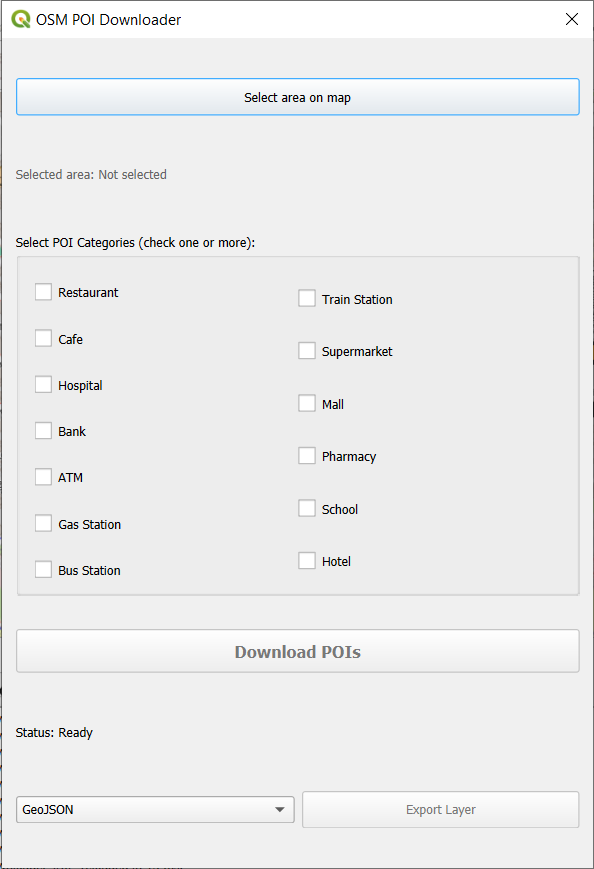
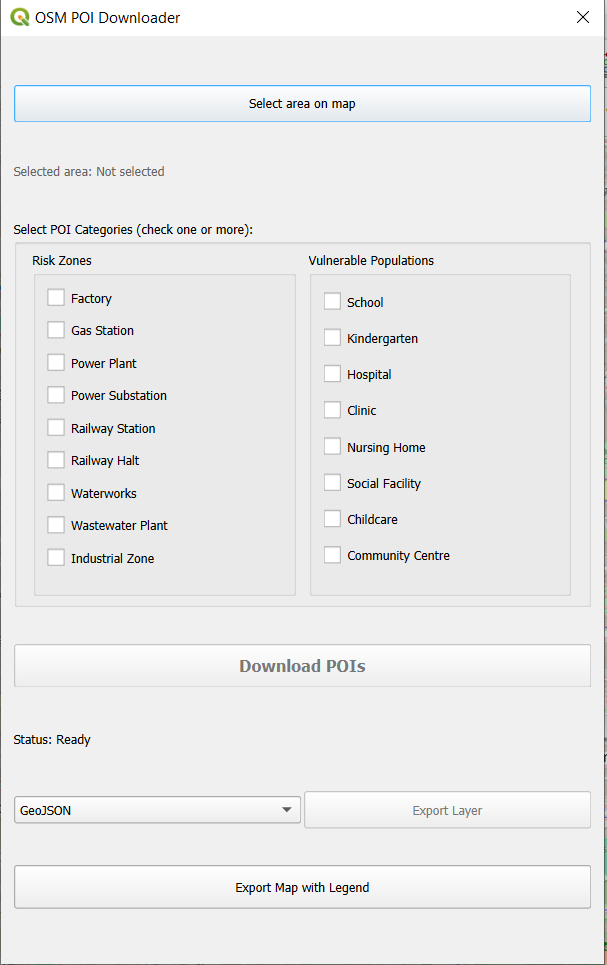
Update README.md

diff --git a/README.md b/README.md
@@ -1,38 +1,65 @@
 # OSM POI Downloader - QGIS Plugin
 
-A QGIS plugin for downloading and visualizing Points of Interest (POI) data from OpenStreetMap using the Overpass API.
+A QGIS plugin for risk assessment mapping by downloading and visualizing Points of Interest (POI) data from OpenStreetMap using the Overpass API. Designed for identifying potential hazards (Risk Zones) and sensitive locations (Vulnerable Populations).
 
 ## Overview
 
-This plugin allows users to quickly download POI data from OpenStreetMap by drawing a bounding box on the map and selecting one or more POI categories. The downloaded data is automatically displayed as styled layers in QGIS and can be exported to GeoJSON or CSV formats.
+This plugin enables rapid risk assessment by downloading and mapping two critical categories of locations from OpenStreetMap:
+- **Risk Zones**: Industrial facilities and infrastructure that may pose hazards
+- **Vulnerable Populations**: Facilities serving sensitive groups requiring special consideration
+
+Users can draw a bounding box on the map, select categories, and automatically visualize the data with intelligent color-coding and density-based labeling.
 
 ## Features
 
 ### Core Functionality
 - **Interactive Area Selection**: Draw a rectangle directly on the QGIS map canvas to define your search area
-- **Multiple POI Categories**: Support for 13 common POI types:
-  - Restaurant
-  - Cafe
-  - Hospital
-  - School
-  - Bank
-  - ATM
-  - Pharmacy
+- **Risk Assessment Categories**: Two main category groups with 17 total POI types:
+
+#### Risk Zones (Industrial & Infrastructure Hazards)
+  - Factory
   - Gas Station
-  - Supermarket
-  - Mall
-  - Bus Station
-  - Train Station
-  - Hotel
+  - Power Plant
+  - Power Substation
+  - Railway Station
+  - Railway Halt
+  - Waterworks
+  - Wastewater Plant
+  - Industrial Zone
+
+#### Vulnerable Populations (Sensitive Facilities)
+  - School
+  - Kindergarten
+  - Hospital
+  - Clinic
+  - Nursing Home
+  - Social Facility
+  - Childcare
+  - Community Centre
 
 ### Advanced Features
-- **Multi-Category Download**: Select and download multiple POI categories simultaneously
-- **Automatic Styling**: Each POI category is displayed with a distinct color for easy visual identification
+- **Color-Coded Visualization**: 
+  - Risk Zones displayed in red/orange palette for immediate hazard identification
+  - Vulnerable Populations shown in blue/green palette for clarity
+  - Different marker sizes for visual distinction
+- **Smart Density-Based Labeling**: 
+  - Automatic label display in low-density areas (< 10 POIs/km²)
+  - Labels hidden in high-density urban areas to prevent clutter
+  - Intelligent edge-case handling for very small areas
+- **Batch Query Optimization**:
+  - Batch mode for 3+ categories (single API call for efficiency)
+  - Individual mode with rate-limiting delays for 1-2 categories
+  - Automatic retry logic with exponential backoff for reliability
 - **Statistical Analysis**: Automatic calculation of:
-  - Number of POIs found
+  - Number of POIs found per category
   - Area covered (km²)
   - POI density (POIs per km²)
   - Geographic bounds
+- **Map Export with Automatic Legend**:
+  - Export complete map canvas to PNG, JPEG, or PDF
+  - Automatically generated legend showing all visible layers
+  - Custom title input
+  - Professional layout with scale bar
 - **Data Export**: Export downloaded POI data to:
   - GeoJSON format (for use in web maps and other GIS software)
   - CSV format (for use in spreadsheets and databases)
@@ -86,8 +113,10 @@ This plugin allows users to quickly download POI data from OpenStreetMap by draw
 
 4. **Download POIs**
    - Click `Download POIs`
-   - Progress bar shows download status for each category
-   - Upon completion, new layers appear in the Layers panel
+   - Progress bar shows download status
+   - For 3+ categories: single batch request (faster)
+   - For 1-2 categories: individual requests with delays (more reliable)
+   - Upon completion, new layers appear in the Layers panel with appropriate colors
    - Statistics panel shows analysis of the downloaded data
 
 5. **Export Data (Optional)**
@@ -96,14 +125,25 @@ This plugin allows users to quickly download POI data from OpenStreetMap by draw
    - Choose to export all layers or select specific ones
    - Select save location
 
+6. **Export Map (Optional)**
+   - Click `Export Map with Legend`
+   - Choose format (PNG, JPEG, or PDF)
+   - Enter custom map title
+   - Select save location
+   - Map is exported with automatic legend
+
 ### Tips for Best Results
 
 - **Area Size**: For best performance, keep your search area under 25 km²
-- **Dense Areas**: In city centers, consider smaller areas or fewer categories to avoid timeouts
+- **Dense Areas**: In city centers, smaller areas work better
+- **Category Selection**: 
+  - Select 3+ categories for faster batch download
+  - Mix Risk Zones and Vulnerable Populations for comprehensive assessment
 - **No Results**: If no POIs are found, try:
   - A larger area
-  - Different categories (some POI types may not be mapped in all regions)
+  - Different categories (some POI types may not be well-mapped in all regions)
   - A different location
+- **Labeling**: Labels automatically adjust based on density - sparse areas show labels, dense areas don't
 
 ## Screenshots
 
@@ -116,6 +156,9 @@ This plugin allows users to quickly download POI data from OpenStreetMap by draw
 ### Multiple Layers
 ![Multiple Categories](docs/screenshots/multiple_layers.PNG)
 
+### Exported Map with Legend
+![Exported Map](docs/screenshots/exported_map.png)
+
 ## Technical Details
 
 ### Architecture
@@ -125,9 +168,10 @@ The plugin consists of several modular components:
 - **`osm_poi_downloader.py`**: Main plugin class and QGIS integration
 - **`osm_poi_downloader_dialog.py`**: User interface logic and workflow coordination
 - **`map_tool_select_area.py`**: Custom map tool for interactive rectangle selection
-- **`overpass_api.py`**: Overpass API client with query builder and response parser
-- **`poi_layer_creator.py`**: QGIS layer creation and styling
+- **`overpass_api.py`**: Overpass API client with query builder, batch processing, retry logic, and response parser
+- **`poi_layer_creator.py`**: QGIS layer creation, color-coded styling, and density-based labeling
 - **`exporter.py`**: Data export functionality (GeoJSON, CSV)
+- **`map_exporter.py`**: Map canvas export with automatic legend generation
 - **`statistics_calculator.py`**: Geographic calculations and statistics
 
 ### Data Source
@@ -140,9 +184,33 @@ All POI data comes from **OpenStreetMap** via the **Overpass API**:
 ### API Usage
 
 This plugin uses the public Overpass API endpoint (`https://overpass-api.de/api/interpreter`):
-- Queries timeout after 25 seconds
+- Batch queries for 3+ categories (single API call)
+- Individual queries with 2-second delays for 1-2 categories
+- Automatic retry logic with exponential backoff (3 attempts)
+- Queries timeout after 25 seconds (individual) or 60 seconds (batch)
 - Fair use policy applies
 - For heavy usage, consider running your own Overpass instance
+
+### Query Optimization
+
+The plugin intelligently chooses between two query modes:
+- **Batch Mode (3+ categories)**: Single Overpass query for all categories, faster and more efficient
+- **Individual Mode (1-2 categories)**: Separate queries with delays, more reliable for small requests
+- **Retry Logic**: Automatically retries failed requests up to 3 times with exponential backoff
+
+### Visualization Features
+
+- **Color Coding**:
+  - Risk Zones: Red to orange gradient
+  - Vulnerable Populations: Blue to green gradient
+- **Marker Sizing**:
+  - Risk Zones: 4mm diameter with 1.0mm outline
+  - Vulnerable Populations: 3mm diameter with 0.8mm outline
+- **Smart Labeling**:
+  - Density threshold: 10 POIs/km²
+  - Areas below threshold: labels enabled
+  - Areas above threshold: labels disabled
+  - Minimum area threshold: 0.01 km² (labels always shown for smaller areas)
 
 ## Limitations
 
@@ -160,13 +228,22 @@ This plugin uses the public Overpass API endpoint (`https://overpass-api.de/api/
 - **Solution**: Make sure the plugin folder is in the correct location and QGIS was restarted
 
 **Problem**: "Request timed out" error
-- **Solution**: Either the area is too large or the API is busy. Try again with a smaller area
+- **Solution**: The area may be too large or the API is busy. Try a smaller area or select fewer categories
+
+**Problem**: "504 Gateway Timeout" error
+- **Solution**: The Overpass API is overloaded. Wait a minute and try again with a smaller area
 
 **Problem**: No POIs found in an urban area
-- **Solution**: The selected category may not be well-mapped in that region. Try different categories
+- **Solution**: The selected category may not be well-mapped in that region. Try different categories or check OpenStreetMap coverage
 
 **Problem**: Export button is disabled
 - **Solution**: Download POIs first before attempting to export
+
+**Problem**: Labels are missing or too crowded
+- **Solution**: This is automatic based on density. High-density areas don't show labels to prevent clutter
+
+**Problem**: Batch download fails
+- **Solution**: Try downloading categories individually (1-2 at a time) or reduce the area size
 
 ## Development
 
@@ -180,9 +257,10 @@ osm_poi_downloader/
 ├── osm_poi_downloader_dialog_base.ui   # UI layout (Qt Designer)
 ├── osm_poi_downloader_dialog_base.py   # Generated from .ui file
 ├── map_tool_select_area.py             # Map selection tool
-├── overpass_api.py                     # API client
-├── poi_layer_creator.py                # Layer creation
+├── overpass_api.py                     # API client with batch & retry logic
+├── poi_layer_creator.py                # Layer creation, styling, labeling
 ├── exporter.py                         # Export functionality
+├── map_exporter.py                     # Map canvas export with legend
 ├── statistics_calculator.py            # Statistics calculations
 ├── resources.py                        # Qt resources (icons)
 └── icon.png                            # Plugin icon
@@ -201,14 +279,25 @@ osm_poi_downloader/
    pyrcc5 -o resources.py resources.qrc
    ```
 
+## Use Cases
+
+### Risk Assessment Planning
+- Identify industrial hazards near sensitive populations
+- Assess vulnerability of schools and hospitals to nearby hazards
+- Plan emergency response routes and evacuation zones
+
+### Urban Planning
+- Analyze distribution of vulnerable population facilities
+- Evaluate industrial zone placement relative to residential areas
+- Support zoning decisions with spatial analysis
+
+### Research & Analysis
+- Study spatial relationships between hazards and vulnerable groups
+- Generate maps for reports and presentations
+- Export data for further GIS or statistical analysis
+
 ## Author
 
 **Isidora Pavlović**
 - Email: isidorapavlovic0@gmail.com
 - GitHub: [pavlovicisidora](https://github.com/pavlovicisidora/qgis-thesis)
-
-## Acknowledgments
-
-- OpenStreetMap contributors for providing the data
-- Overpass API developers for the query interface
-- QGIS development team for the excellent platform and PyQGIS API
